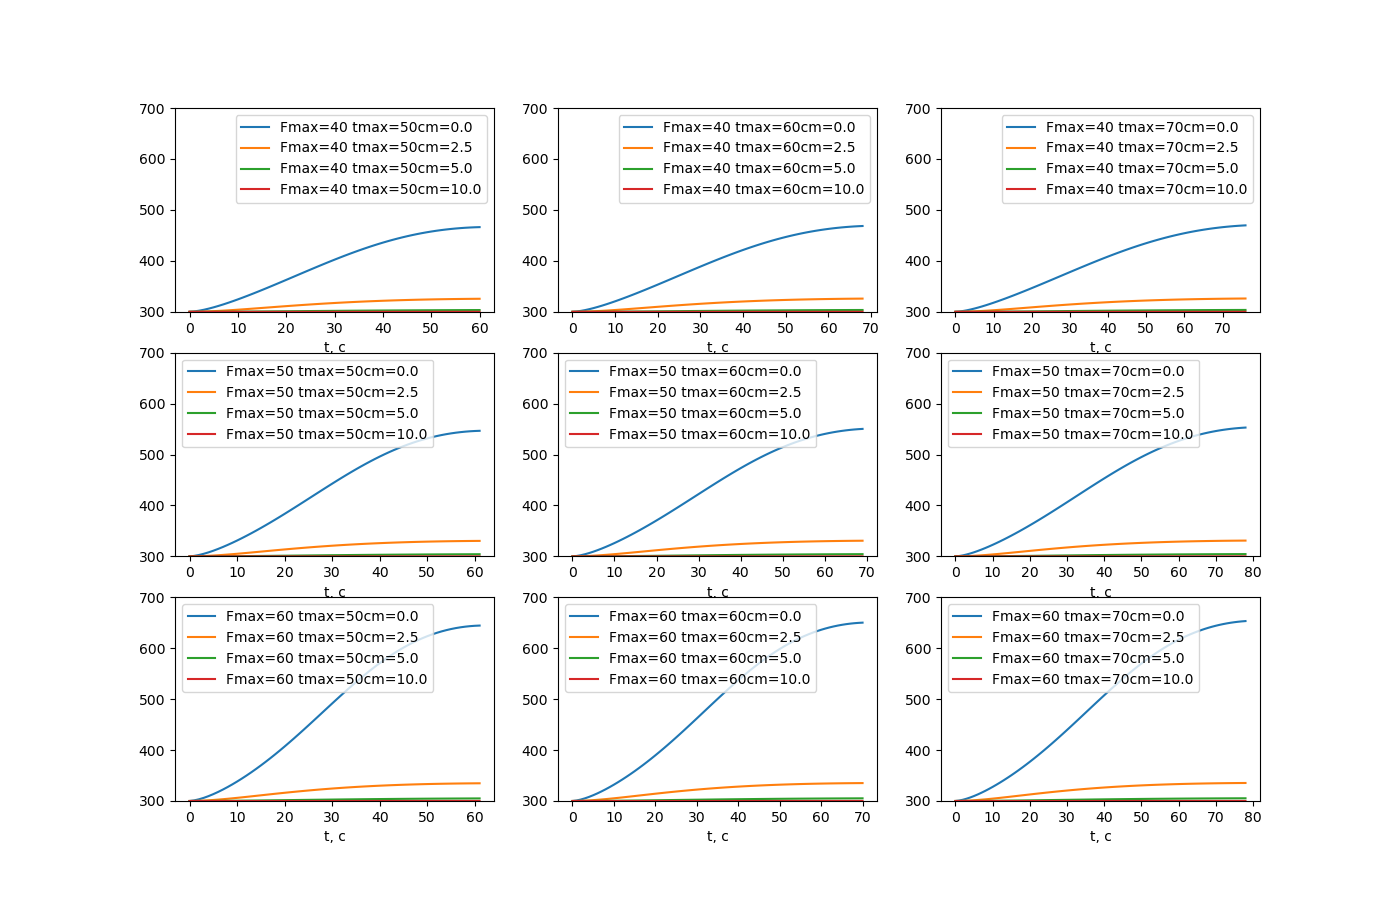
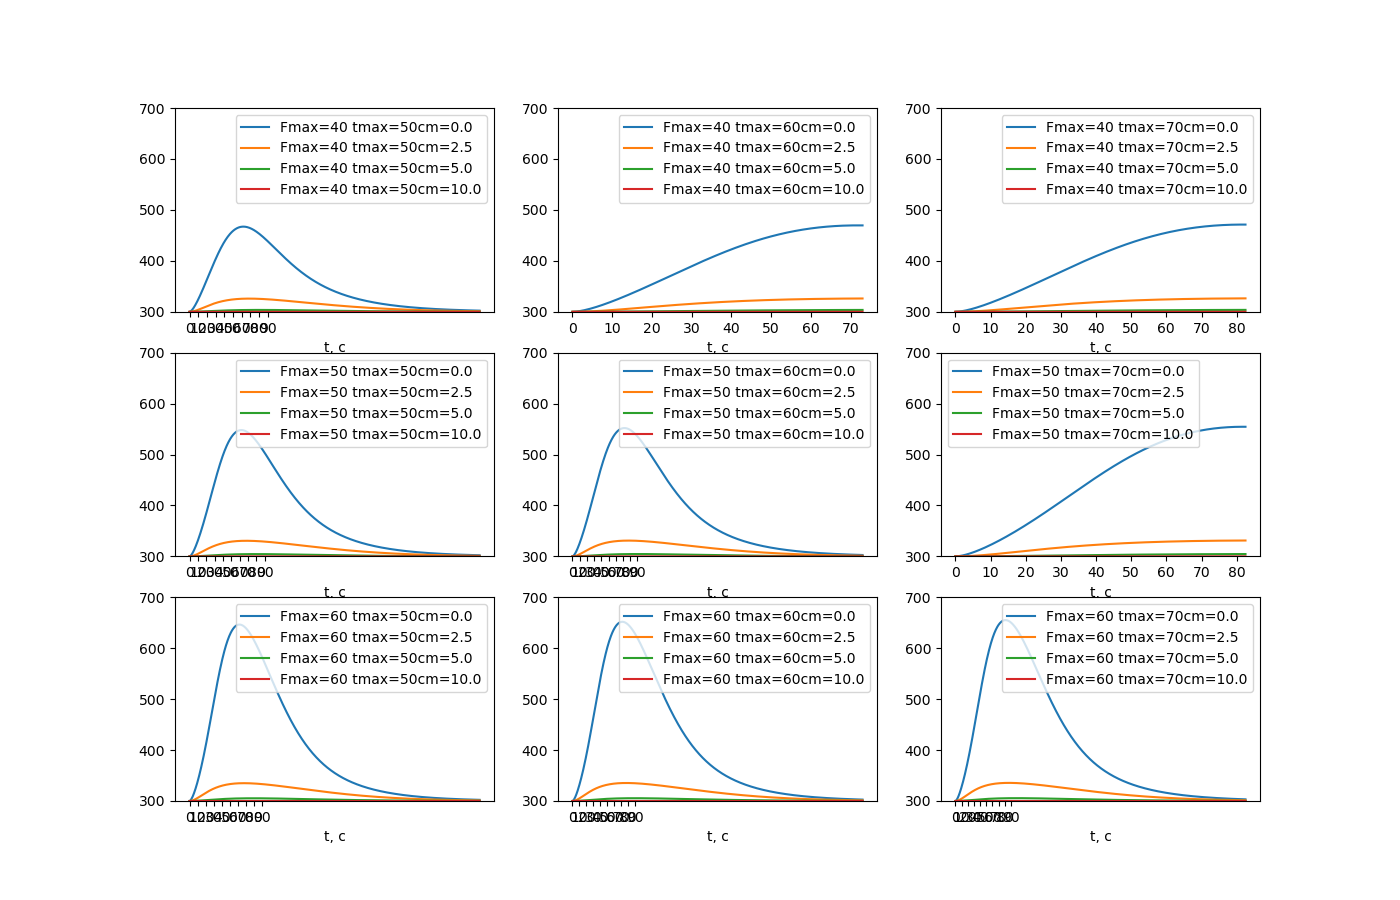
final

diff --git a/lab_04/main.py b/lab_04/main.py
@@ -453,8 +453,8 @@ def study2_steps():
 def study3_ab():
     print('research ab')
     # 2 значения -- по условию
-    a2_array = [1, 2.049, 3, 5]
-    b2_array = [0.1e-3, 0.563e-3, 0.6e-2]
+    a2_array = [1, 2.049, 5]
+    b2_array = [0.563e-3, 0.6e-2]
     fig = plt.figure(figsize=(14, 9))
 
     for i, a2 in enumerate(a2_array):
@@ -467,11 +467,12 @@ def study3_ab():
             T, t_array = solver.get_results()
 
             T_0t = [T_m[0] for T_m in T]
-            plt.xticks(t_array[::len(t_array) / 10])
+            plt.xticks(t_array[::len(t_array) // 10])
             plt.plot(t_array, T_0t, label=title)
+            plt.grid()
             plt.legend()
 
-            print(f'a2={a2}, b2={b2}, T_0t={T_0t}')
+            print(f'a2={a2}, b2={b2}')
 
     plt.savefig(f"a2b2.png")
     plt.show()
@@ -482,7 +483,6 @@ def study4_impuls():
     in_row = 3
     stop_timing = 600
     print('research impuls')
-    v_array = [5, 3, 1, 0.1, 0.01]
     v_array = [0.01, 0.05, 0.1, 1, 3, 5] # больше низя
     fig = plt.figure(figsize=(14, 9))
 
@@ -491,17 +491,15 @@ def study4_impuls():
         print(title)
         plt.subplot(ceil(len(v_array) / in_row), in_row, i + 1)
 
-        solver = Solver(v={'v': v, 'stop_timing':stop_timing}, h=0.1, tau=0.1)
+        solver = Solver(v={'v': v, 'stop_timing': stop_timing}, h=0.1, tau=0.1)
         solver.solve()
         T, t_array = solver.get_results()
-        print(len(T), len(T[0]))
+        print(len(T))
 
         T_0t = [T_m[0] for T_m in T]
         plt.xticks(list(range(0, stop_timing, int(stop_timing / 10))))
         plt.plot(t_array, T_0t, label=title)
         plt.legend()
-
-        print(f'v={v}, T_0t={T_0t}')
 
     plt.savefig(f"v.png")
     plt.show()
@@ -600,19 +598,18 @@ def main():
     # test_with_constant_F0_t()
 
 
-    # OK
-    study2_steps()
+    # OK do
+    # study2_steps()
 
 
     # OK
-    #study3_ab()
+    # study3_ab()
+
+
+    # study4_impuls()
 
     # OK
-    # study5_Ftmax()
-
-
-
-    #study4_impuls()
+    study5_Ftmax()
 
 
 
